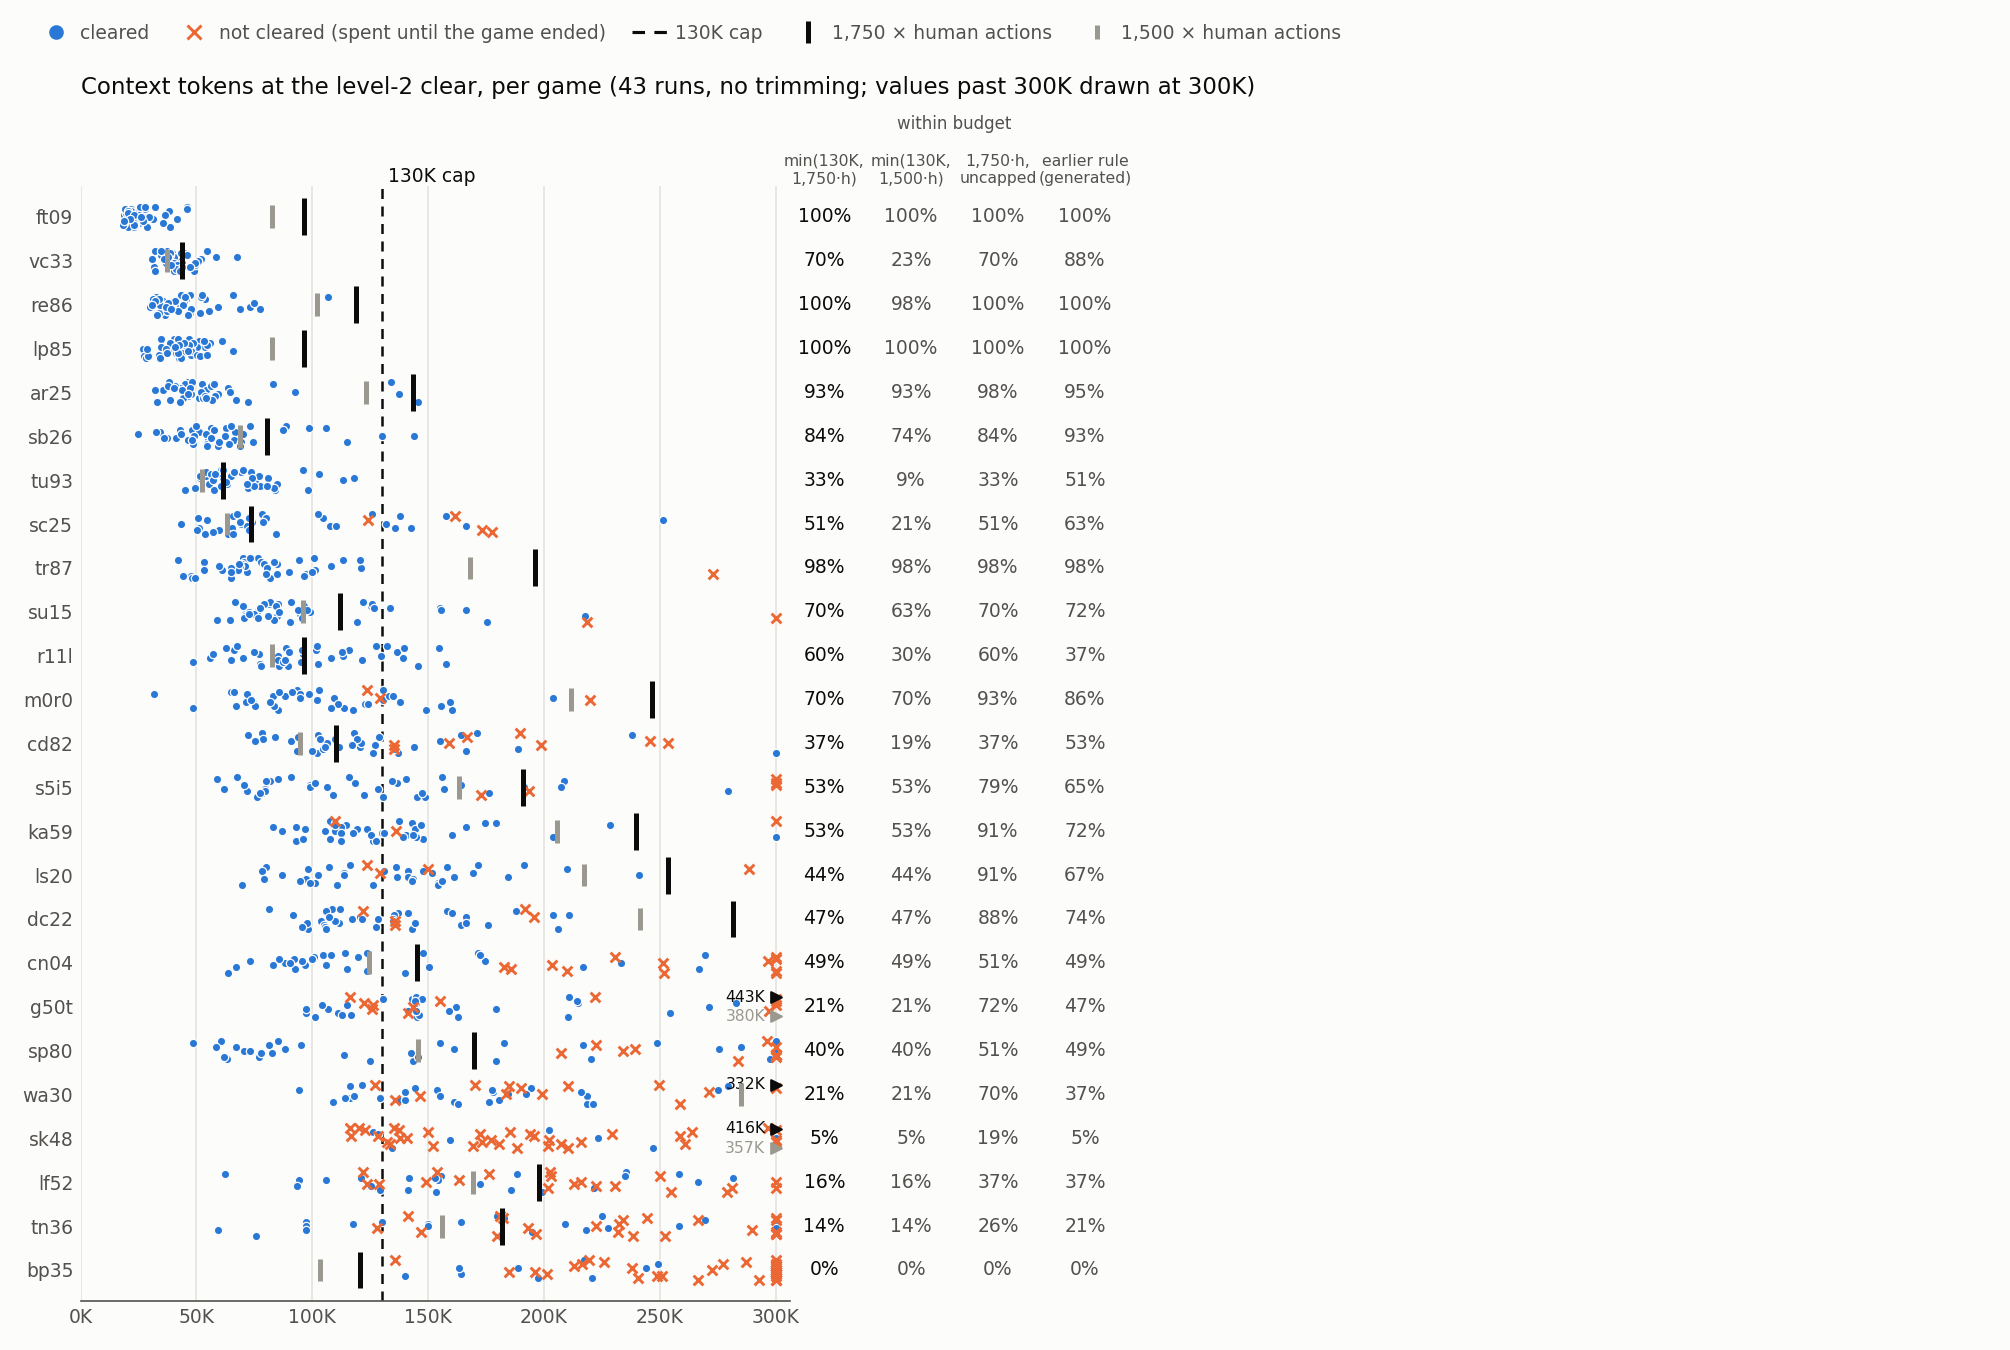
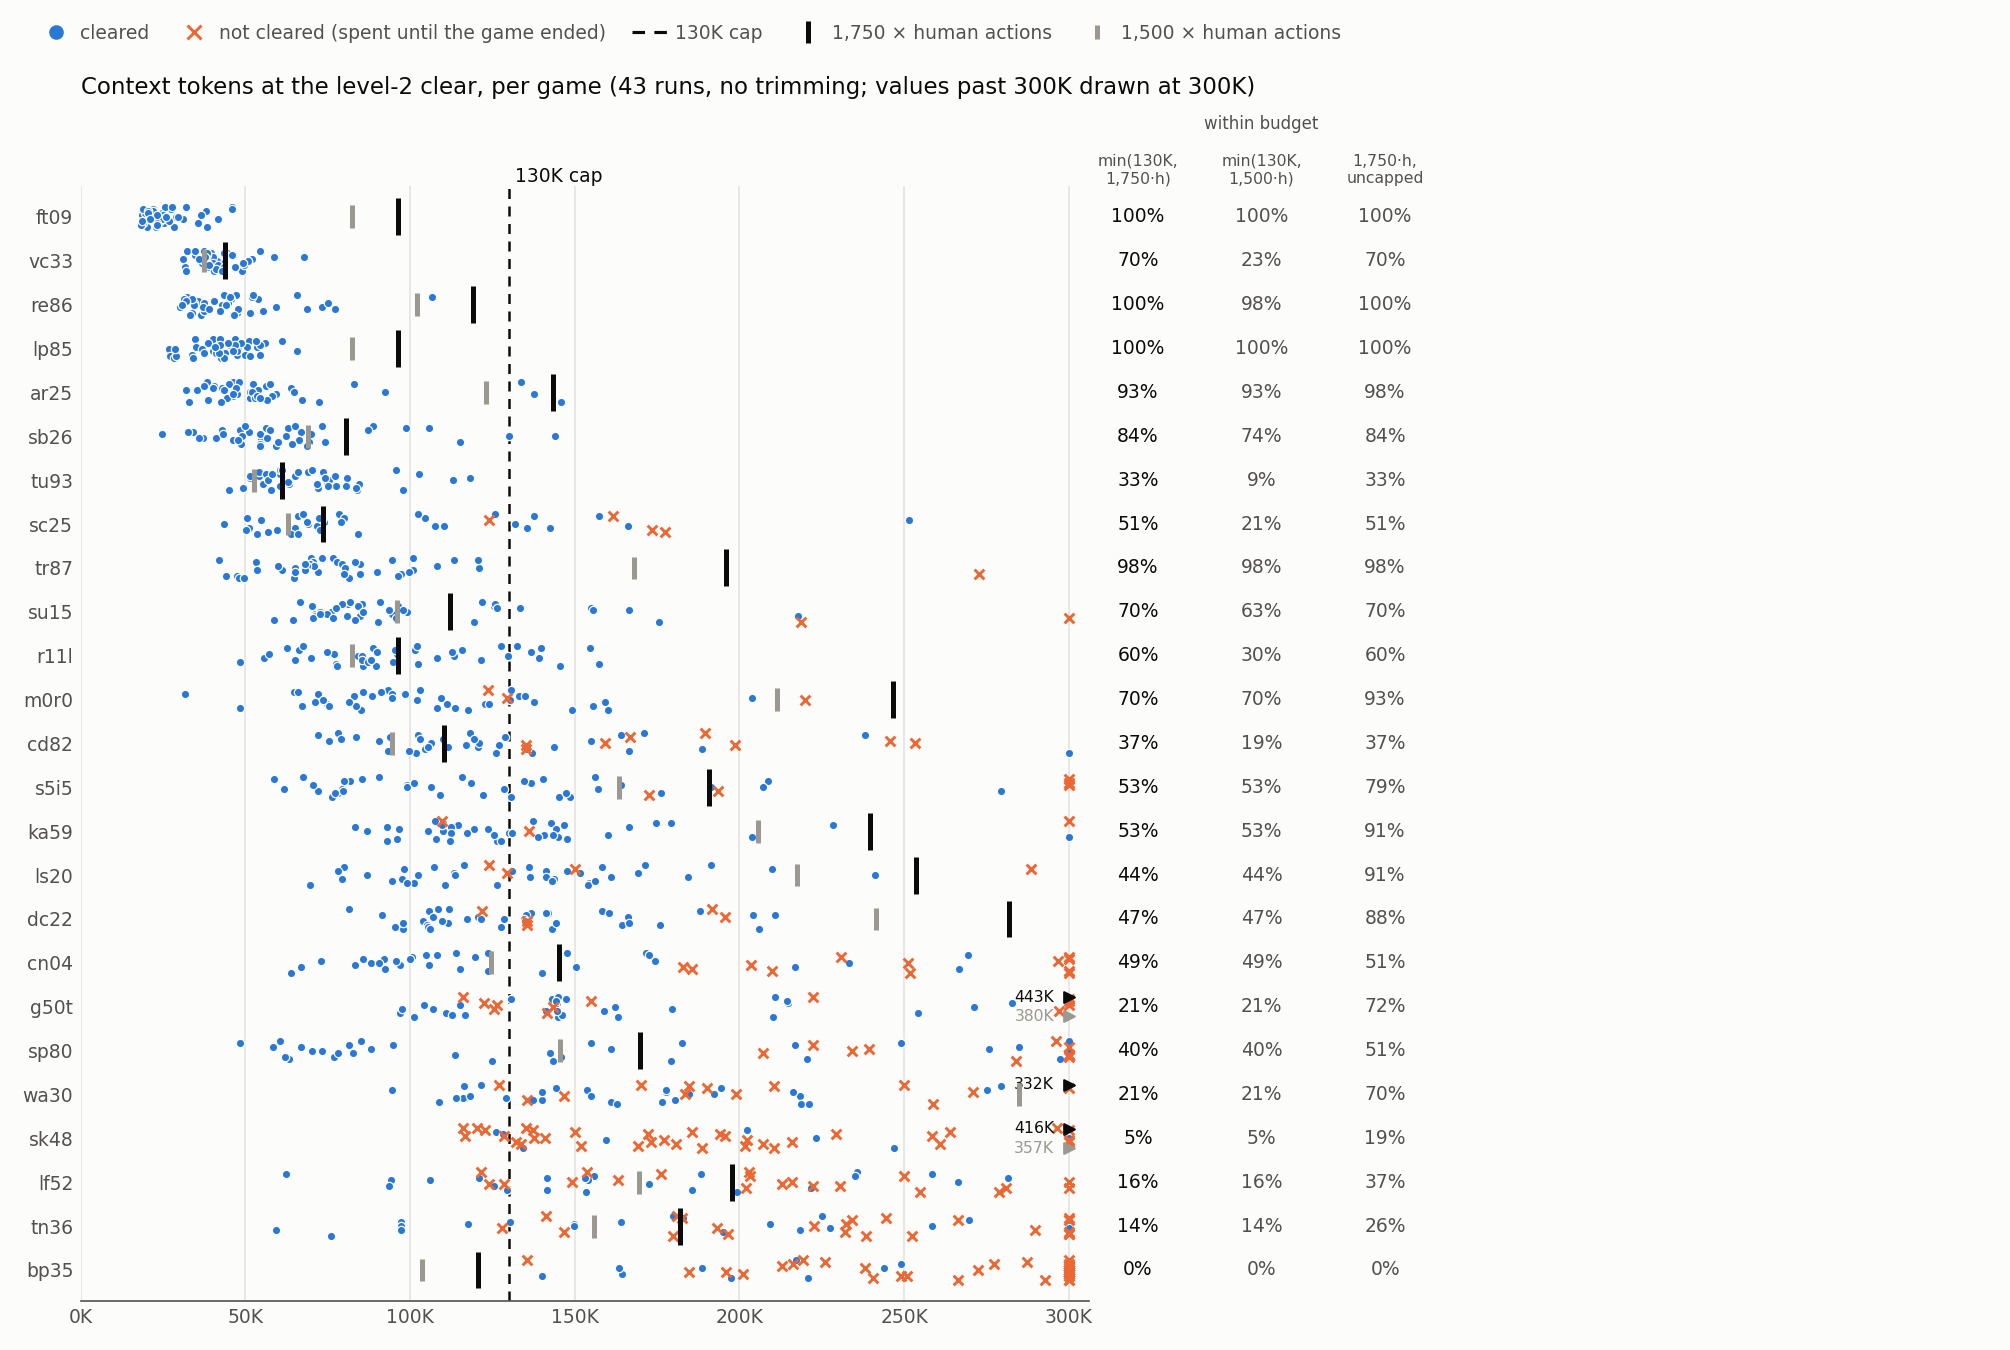
GRPO budget figure: context rules only; the earlier generated-token rule stays in the tables

diff --git a/docs/RL/scripts/l1_l2_token_budget.py b/docs/RL/scripts/l1_l2_token_budget.py
@@ -183,16 +183,16 @@ def main():
     strip(ax, order, {g: [(a["tokens"], a["cleared"]) for a in data[g]] for g in games}, ticks, xmax, title)
     ax.set_title(title, loc="left", fontsize=11, color=INK, pad=44)
     labels = [f"min({CAP // 1000}K,\n{PER_HUMAN_ACTION:,}·h)", f"min({CAP // 1000}K,\n{ALTERNATIVE:,}·h)",
-              f"{PER_HUMAN_ACTION:,}·h,\nuncapped", "earlier rule\n(generated)"]
+              f"{PER_HUMAN_ACTION:,}·h,\nuncapped"]  # context rules only; the earlier rule is in the tables
     for col, (name, label) in enumerate(zip(rules, labels)):
         x = xmax * (1.07 + 0.125 * col)
         ax.text(x, len(order) - 0.3, label, fontsize=7.5, color=MUTED, va="bottom", ha="center")
         for row, game in enumerate(order):
             ax.text(x, len(order) - 1 - row, f"{within[name][game]:.0%}", fontsize=9,
                     color=INK if col == 0 else MUTED, va="center", ha="center")
-    ax.text(xmax * 1.257, len(order) + 1.0, "within budget", fontsize=8, color=MUTED, ha="center")
+    ax.text(xmax * 1.195, len(order) + 1.0, "within budget", fontsize=8, color=MUTED, ha="center")
     legend(fig)
-    fig.tight_layout(rect=(0, 0, 0.75, 0.96))
+    fig.tight_layout(rect=(0, 0, 0.8, 0.96))
     fig.savefig(os.path.join(IMAGES, "l1_l2_tokens_per_game.png"), dpi=150, facecolor=SURFACE)
     plt.close(fig)
 

diff --git a/docs/RL/grpo-l1-l2-token-budget.md b/docs/RL/grpo-l1-l2-token-budget.md
@@ -57,7 +57,7 @@ The ratio of context to generated tokens is higher for short episodes, where the
 How to read it:
 - Each attempt is a dot (cleared) or a cross (not cleared). Games are sorted by median context.
 - The black tick is 1,750 · h; the shorter gray tick is 1,500 · h. A tick past 300K is drawn as a triangle at the edge with its value. The dashed line is the 130K cap.
-- The columns at the right give each game's share of attempts within budget under the four rules; the last one is the earlier generated-token rule.
+- The columns at the right give each game's share of attempts within budget under the three context rules. The earlier generated-token rule is in the table below.
 
 | Game | Human actions L1 + L2 | Budget | Within min(130K, 1,750·h) | Within min(130K, 1,500·h) | Within 1,750·h, uncapped | Within earlier: min(100K, 1,000·h) generated | Cleared at all | Median context (cleared) | p90 context (cleared) | Context per human action (median) | Context / generated (median) |
 |---|---:|---:|---:|---:|---:|---:|---:|---:|---:|---:|---:|
